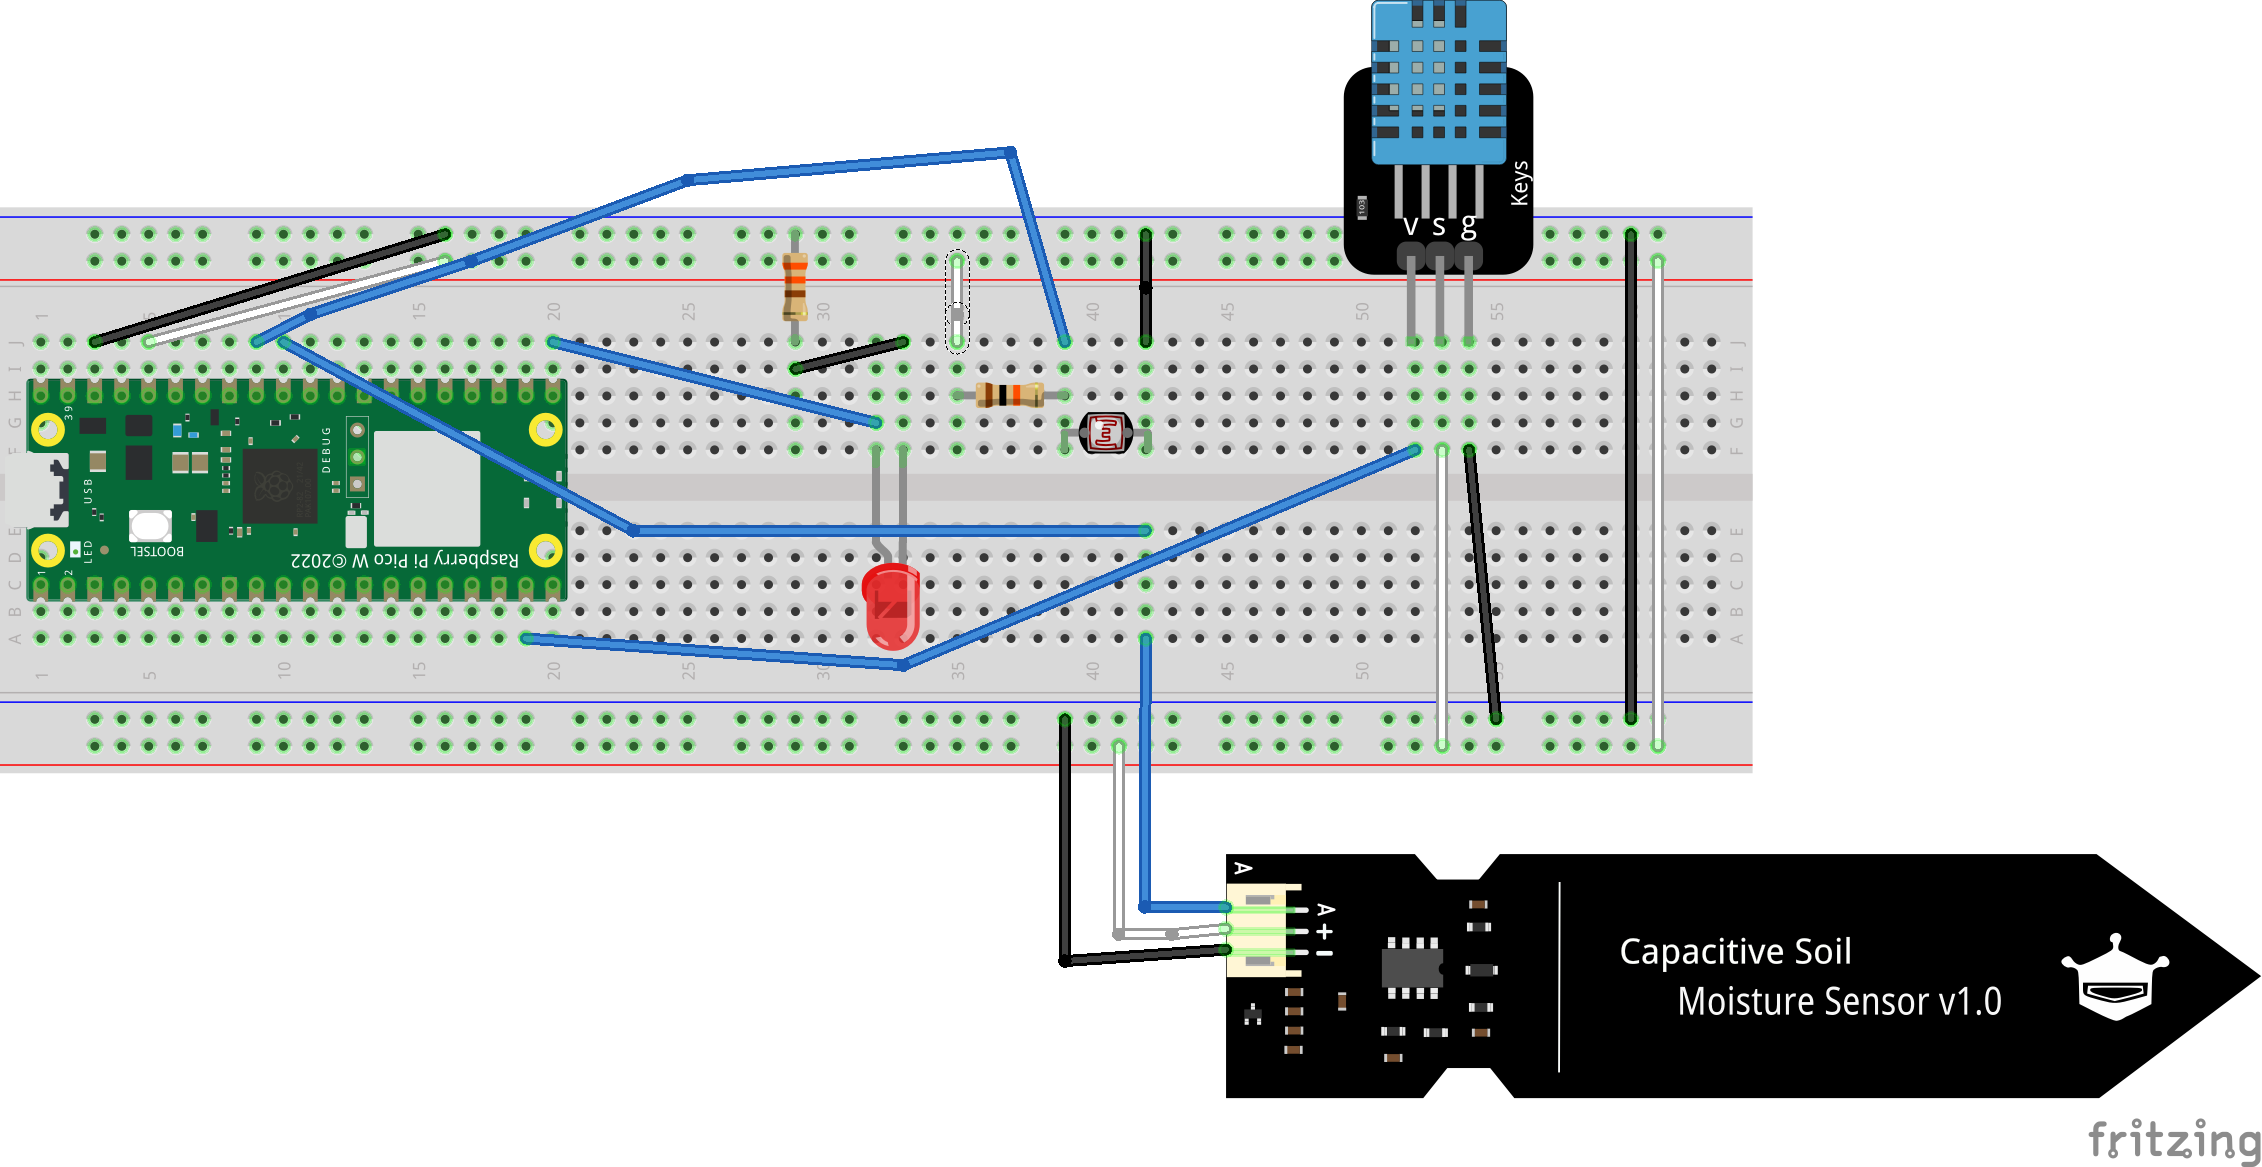
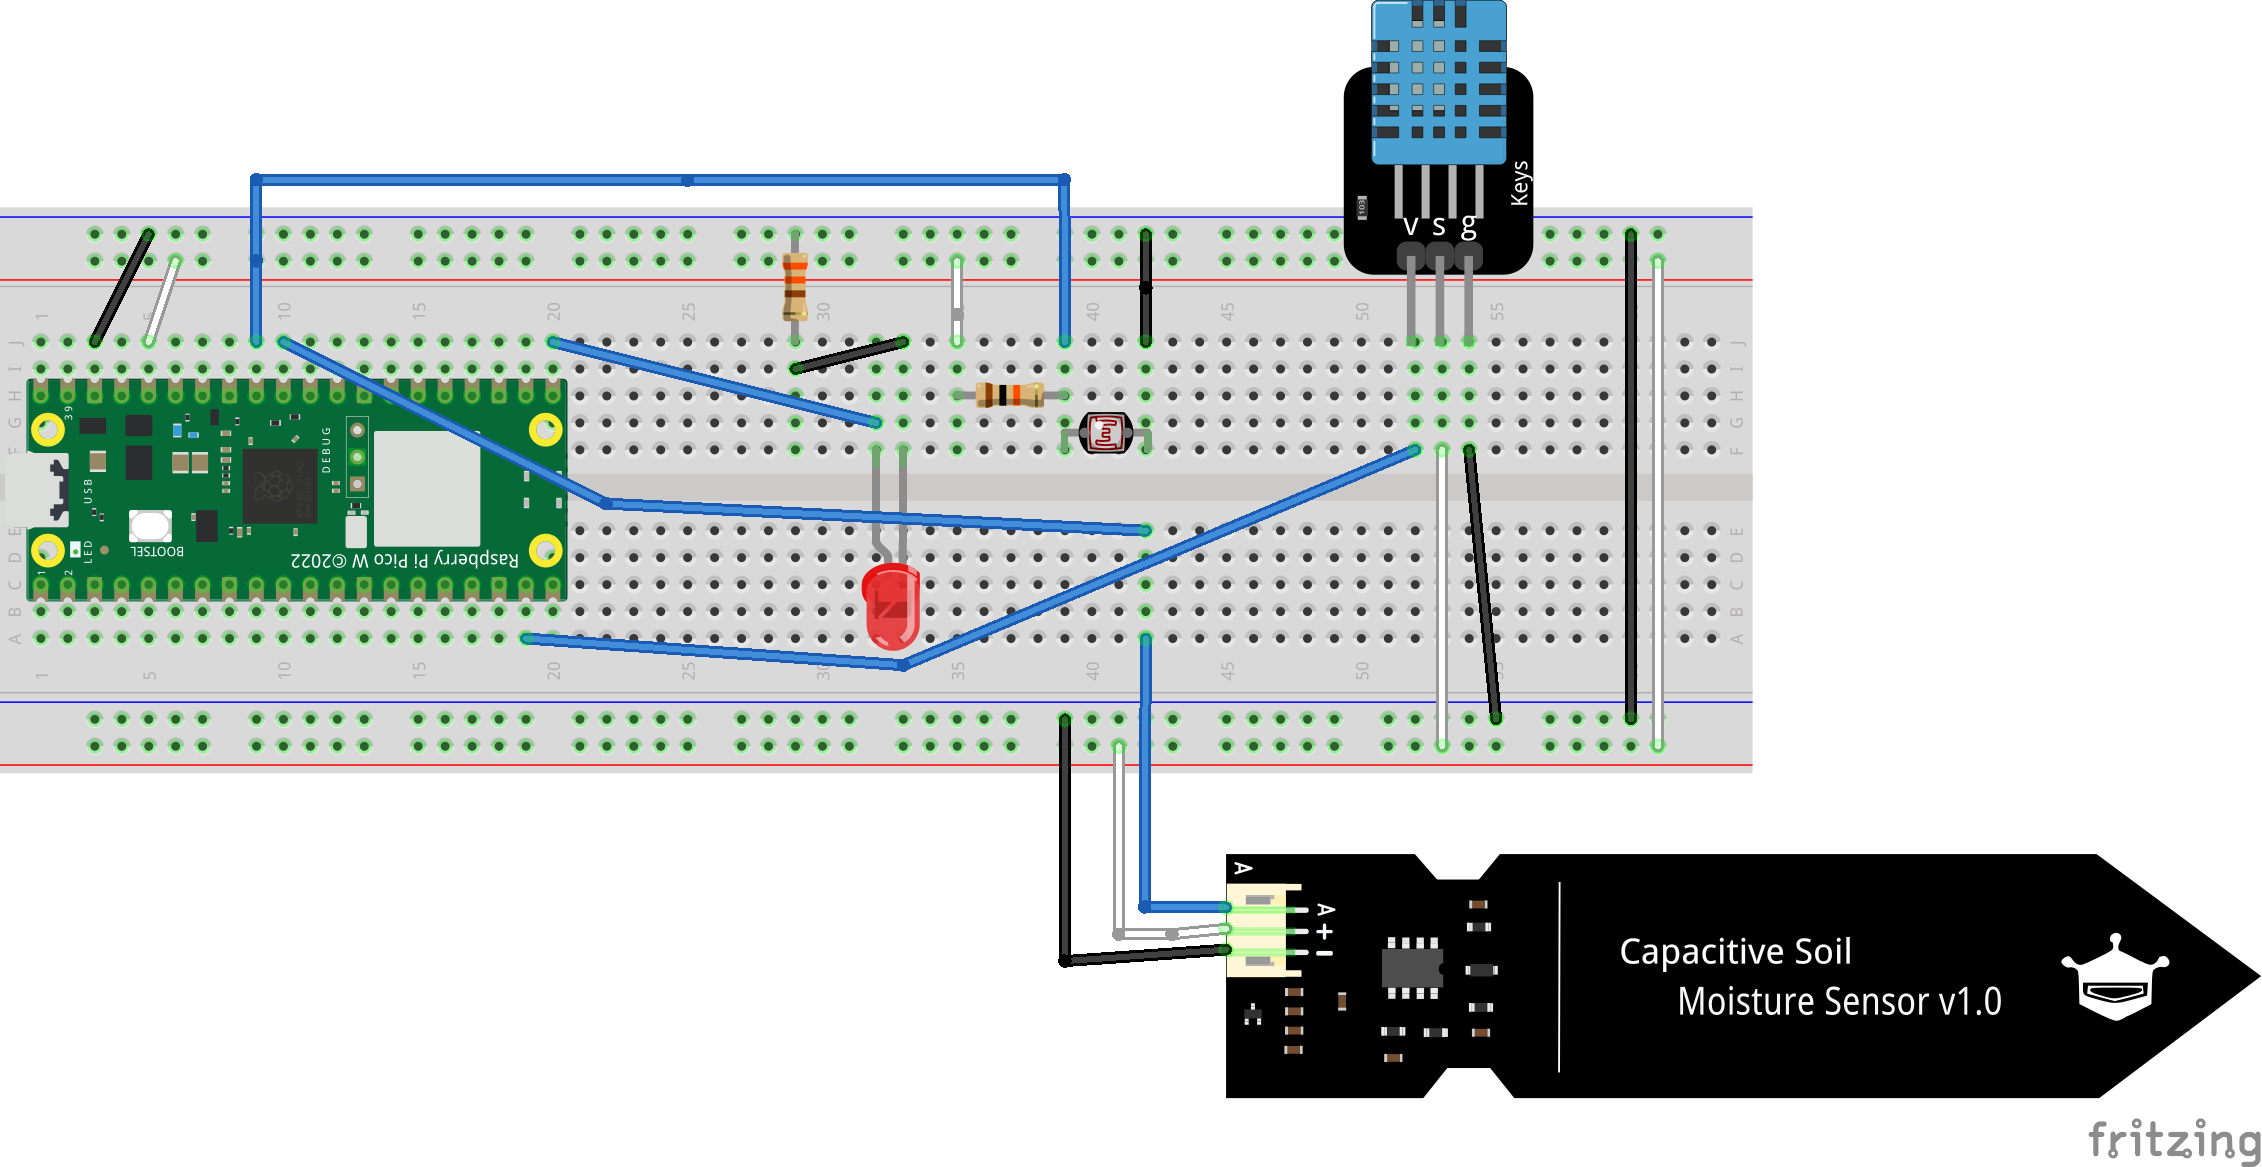
README

Changed region(s): [[0.0309, 0.1234, 0.4951, 0.4627]]

diff --git a/README.md b/README.md
@@ -2,7 +2,7 @@
 
 This tutorial will guide you through the process of creating a plant monitor using a Raspberry Pi as a controller. The project may take approximately 4-7 hours to complete provided you have all the hardware available.
 
-The project creates a notification system that will alert you over Discord when your plant needs watering (or is drowning). The project will use a Raspberry Pi as a controller and local server to monitor the soil moisture of the plant and send a message to Discord when the soil moisture is too low or too high.
+The project creates a notification system that will alert you over Discord when your plant needs watering (or is drowning). The project will use a Raspberry Pi as a controller and as a local server to monitor the soil moisture of the plant and send a message to Discord when the soil moisture is too low or too high.
 
 *Author: Pontus Grandin*
 *ID: pg222pb*
@@ -11,7 +11,7 @@ The project creates a notification system that will alert you over Discord when 
 
 I often forget to water my plants. A device that would alert me when my plants need attention would therefore be useful. The project reads and stores the soil moisture of the plant as well as the humidity and temperature of the room. Although the moisture levels is what will trigger the alert.
 
-The moisture, humidity and temperature is displayed in a web interface that is accessible on the local network for the user to monitor and interpet.
+The moisture, humidity and temperature is displayed in a web interface that is accessible on the local network for the user to monitor and interpret.
 
 ### Material
 
@@ -55,7 +55,7 @@ Grab the latest firmware from [Micropython's website](https://micropython.org/do
 
 #### Raspberry Pi OS Installation
 
-To install the Raspberry Pi Operating Systemn we use the MicroSD card and card reader and the official [Raspberry Pi Imager software](https://www.raspberrypi.com/software/). Using the software allows us to easily install the Raspberry Pi OS onto the MicroSD card and preconfigure Wifi and SSH settings, so we can access the Raspberry Pi remotely. The username and password for the Raspberry Pi OS is used when connecting to the Raspberry Pi through SSH if you select the **Use password authentication** option. I used the Public-key option and could simply SSH into the Raspberry Pi with the following command:
+To install the Raspberry Pi Operating Systemn we use the MicroSD card and card reader and the official [Raspberry Pi Imager software](https://www.raspberrypi.com/software/). Using the software allows us to easily install the Raspberry Pi OS onto the MicroSD card and preconfigure Wifi and SSH settings, so we can access the Raspberry Pi remotely. The username and password for the Raspberry Pi OS is used when connecting to the Raspberry Pi through SSH if you select the **Use password authentication** option. The author used the Public-key option and could simply SSH into the Raspberry Pi with the following command:
 
 ```bash
 ssh <username>@<raspberry-ip-address>
@@ -82,6 +82,7 @@ The diagram is accurate to real life.
 - The moisture sensors data wire is connected to GP26, or ADC0.
 - The temperature and humidity sensors data wire is connected to GP14.
 - The LED is connected to GP16.
+- The photoresistor is connected to GP27, or ADC1.
 
 #### Resistors and Voltage Dividers
 
@@ -117,9 +118,9 @@ The stack of choice for this project is as follows:
 - [InfluxDB](https://www.influxdata.com/) as the database for storing the sensor data.
 - [Grafana](https://grafana.com/) for visualizing the data stored in the InfluxDB.
 
-It is entirely possible to scale this project to include more sensors and more functionality. The Raspberry Pi has more than enough computing power to handle more data transmissions and logic in Node-RED. The one consideration is the amount of data stored in the InfluxDB, as the Raspberry Pi has a limited amount of storage space. This can however be easily upgraded by using an external hard drive or a larger MicroSD card.
+It is entirely possible to scale this project to include more sensors and more functionality. The Raspberry Pi has more than enough computing power to handle more data transmissions and logic in Node-RED. The one consideration is the amount of data stored in the InfluxDB, as the Raspberry Pi has a limited amount of storage space. This can, however, be easily upgraded by using an external hard drive or a larger MicroSD card.
 
-A choice was made between Telegraf and Node-RED for the integration between the different parts. Node-RED was chosen due to its graphical interface, making the visualization of the data flow easier to understand. This stack could run using Telegraf as well and is, I believe, the more orthodox choice.
+A choice was made between [Telegraf](https://www.influxdata.com/time-series-platform/telegraf/) and Node-RED for the integration between the different parts. Node-RED was chosen due to its graphical interface, making the visualization of the data flow easier to understand. This stack could run using Telegraf as well and is, the author believes, the more orthodox choice.
 
 Following is a visualization of the dataflow between the different parts of the project. It is not meant to be an exhaustive explanation of what happens to the data at each step, but rather a high-level overview of the data flow.
 
